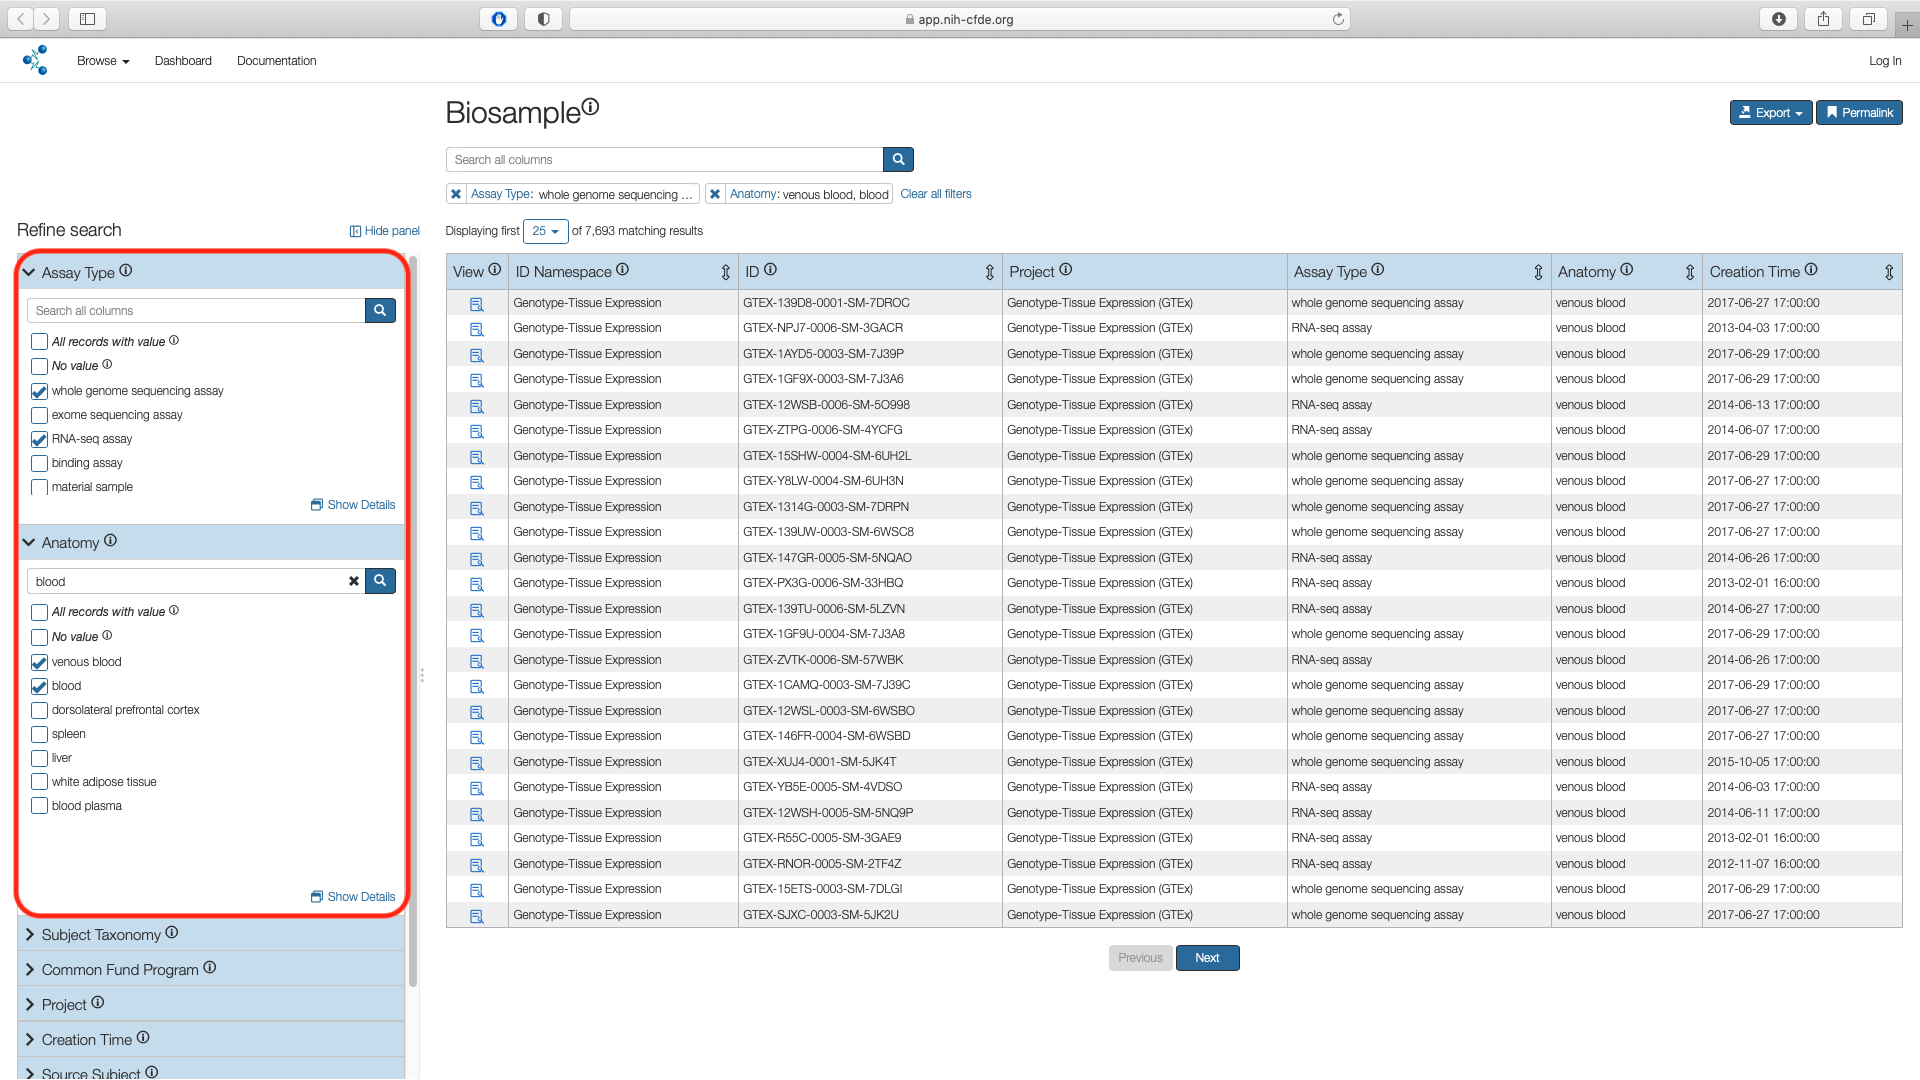
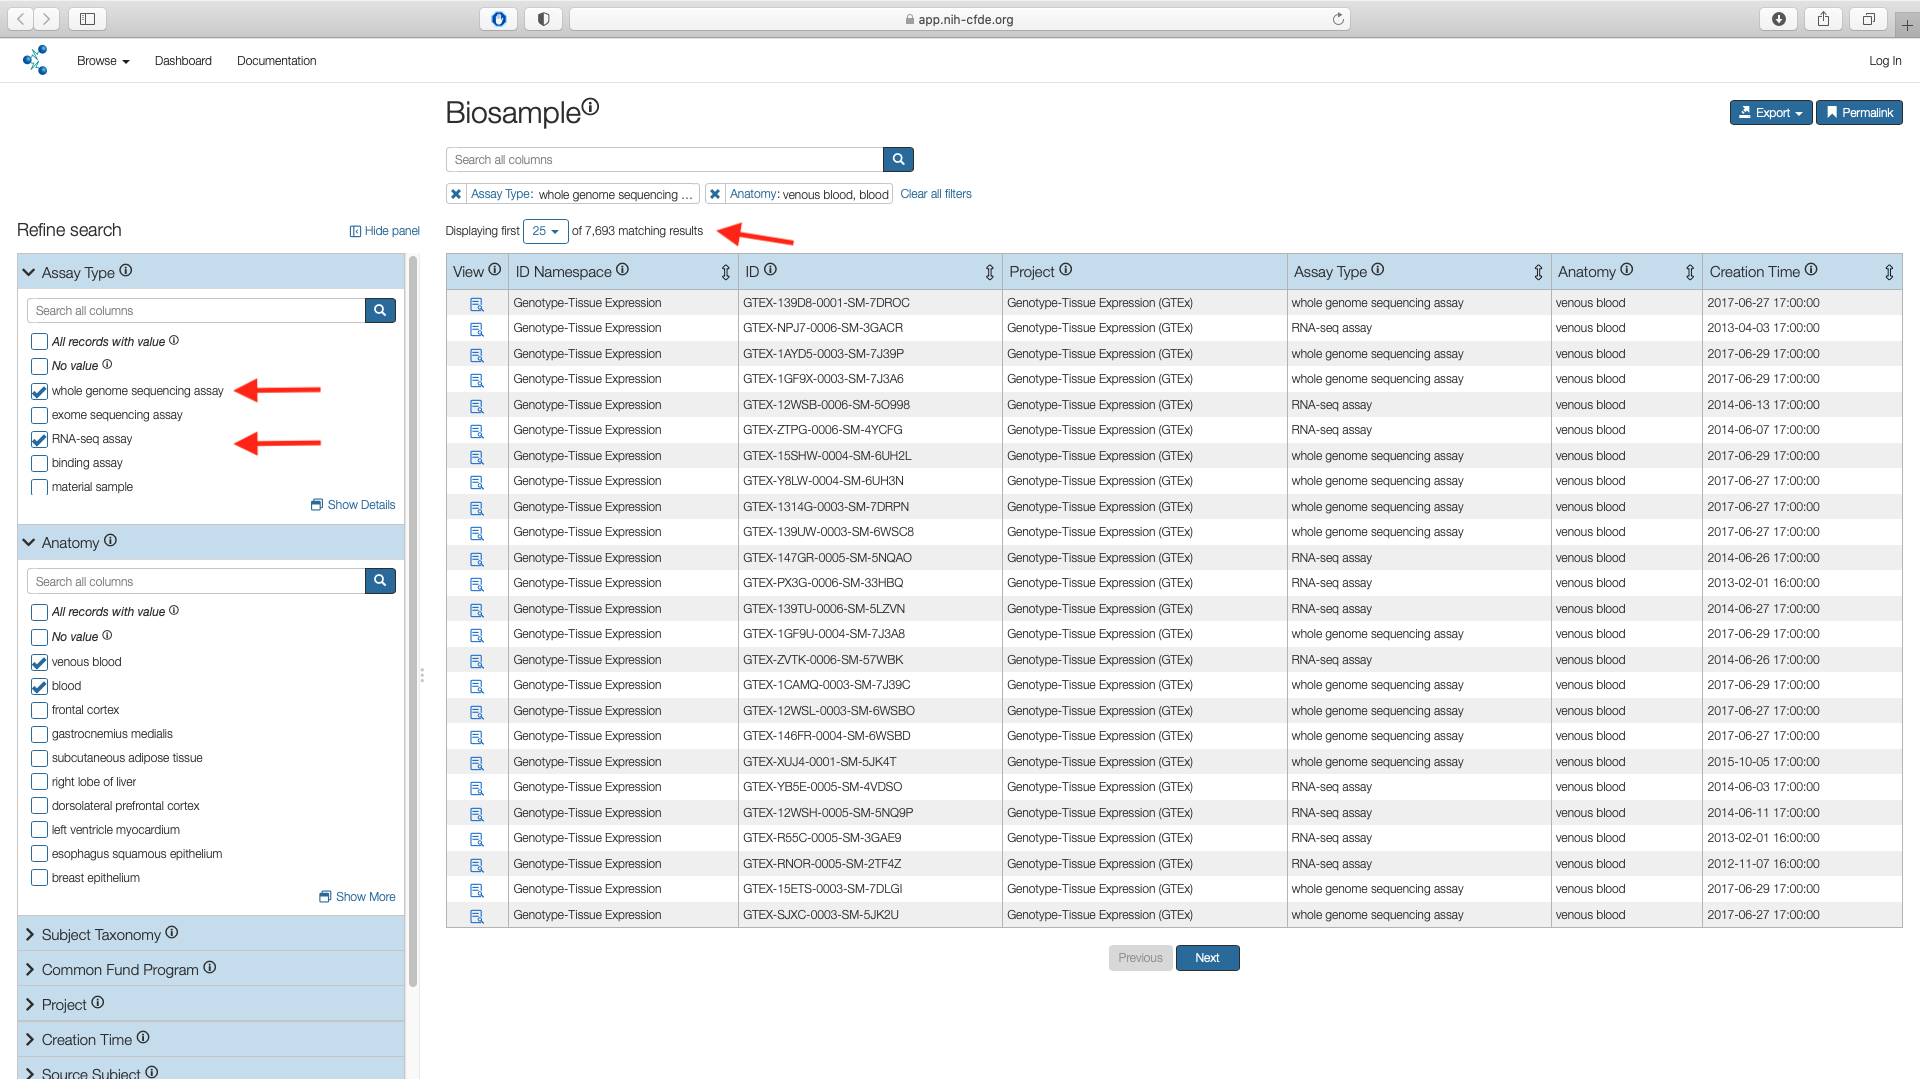
Fixes to blood cancer tutorial based on reviewer comments - moved video to the end - split tutorial into two - clarified images with addition to arrows and boxes - updated some images for simpler workflow - added additional text clarifying download, login and access process

diff --git a/docs/CF-Tutorials/CFDE-Portal/blood-cancer-portal-export.md b/docs/CF-Tutorials/CFDE-Portal/blood-cancer-portal-export.md
@@ -1,0 +1,87 @@
+---
+layout: page
+title: Functional Genetic Variation in Blood Cancer
+---
+
+# Functional Genetic Variation in Blood Cancer
+
+Acute Myeloid Leukemia (AML) is a type of blood cancer. In AML, the affected myeloid cells which are a type of white blood cells, are not functional and build up in the bone marrow leaving reduced capacity for healthy white and red blood cells. While
+risk factors for developing AML exist, often times the underlying cause remains unknown. Gene mutations and chromosomal abnormality in the leukemia cells occur sporadically. Characterization of the wide spectrum of genetic events involved in AML will aide in better
+understanding of its etiology and ultimately in development of improved therapy.
+
+Combining whole genome sequencing (WGS) data with global transcriptomic profiling using RNA-sequencing (RNA-seq) can help elucidate functional dysregulation for genes of interest.
+In this use case, we demonstrate the utility of the [CFDE portal](https://app.nih-cfde.org) in identifying and extracting suitable AML WGS and RNA-seq datasets from across the
+CF programs.
+
+## Step 1: Access the Biosample information
+
+From the main landing page for the [CFDE portal](https://app.nih-cfde.org) there are two
+options to access the "Biosample" view of the CFDE data browser.
+
+By using the "Biosample" link under the "Or browse by feature" section listed
+under "Explore our Repository" or by selecting the "Biosampleunder the "Browse" option in the top left navigation bar.
+
+![CFDE portal Biosample](/../../images/CFDE-portal-biosample.png "CFDE portal Biosample")   
+
+The default page shows a total of 289,320 records.
+
+## Step 2: Apply Anatomy Filter
+
+Access the "Anatomy" filter listed under the Refine Search panel. Click on the "Show More" option which opens a pop up window with all search results.
+
+![Applying anatomy filter](../../images/AML-anatomy-filter.png "Applying anatomy filter")   
+
+Search for "blood" in the search box. Select "blood" and "venous blood" options and choose "Submit".
+
+![Applying blood filter](../../images/AML-blood-filter.png "Applying blood filter")   
+
+The Biosample page shows the subset of matches for "Anatomy" filters. This results in 10,229 results.
+
+![Anatomy blood subset](../../images/AML-blood-subset.png "Anatomy blood subset")   
+
+## Step 3: Apply Assay Filter
+
+Next use the "Assay" filter listed under the Refine Search panel to select the boxes
+for whole genome sequencing assay (WGS) and RNA-seq assay values. This results in 7693 records.
+
+![Apply assay filter](../../images/AML-assay-anatomy.png "Apply assay filter")   
+
+!!! note "Additive Filters"
+    The various filters are additive and are useful in subsetting a larger cohort. In this example the "Assay" filter was applied on top of the "Anatomy" subsetted list.
+
+## Step 4: Apply Project Filter
+
+To select only the datasets pertaining to AML, use the "Project" filter under the Refine
+Search panel and click on "Show More".
+This results in 17 projects stemming from three separate CF programs listed under the
+"ID Namespace" column i.e Genotype-Tissue Expression (GTEx), The Gabriella Miller Kids First
+Pediatric Research Program (KF) and Molecular Transducers of Physical Activity
+Consortium (MoTrPAC).
+
+!!! note "MoTrPAC data "
+    Although MoTrPAC will eventually include human data, the current release contains test data from experiments conducted on rats. Thus, this dataset is excluded from the current cohort.
+
+Check the boxes corresponding to `Genotype-Tissue Expression (GTEx)`and `TARGET: Acute Myeloid Leukemia` in the "Name" column and click "Submit". This results in 1,140 matching records.
+
+![Apply project filter](../../images/AML-final-cohort.png "Apply project filter")   
+
+## Step 5: Export Cohort
+
+The filtered cohort containing 1,140 records can now be exported as a `csv` file and can be accessed from downloads folder associated with the web browser in the user's local machine. Default is generally the `Downloads` folder.
+
+![Export final cohort](../../images/AML-cohort-export.png "Export final cohort")   
+
+!!! note "Cohort manifest contains metadata only"
+
+    The exported `csv` contains metadata only. To further investigate the selected cohort, use the data portals of the originating Common Fund (CF) program i.e. GTEx and KF respectively.
+
+The exported `csv` file has thirteen columns.
+
+![CFDE portal exported file](../../images/CFDE-portal-blood-cancer-export.png "CFDE portal exported file")   
+
+The `anatomy` columns lists the [UBERON](http://uberon.github.io/about.html) values for venous blood (UBERON:0013756) and blood (UBERON:0000178). The `assay_type` lists the [Ontology for Biomedical Investigations (OBI)](http://obi-ontology.org) IDs for WGS (OBI:0002117) and RNA-seq (OBI:0001271).
+The `id` column lists the unique sample IDs within the cohort and will be key in obtaining the associated files from data portals for [GTEx](https://gtexportal.org/home/) and [KF](https://kidsfirstdrc.org/) respectively.
+
+A video walk through demonstrating the cohort selection for AML.
+
+<iframe id="kaltura_player" src="https://cdnapisec.kaltura.com/p/1770401/sp/177040100/embedIframeJs/uiconf_id/29032722/partner_id/1770401?iframeembed=true&playerId=kaltura_player&entry_id=1_2xx7dwci&flashvars[mediaProtocol]=rtmp&amp;flashvars[streamerType]=rtmp&amp;flashvars[streamerUrl]=rtmp://www.kaltura.com:1935&amp;flashvars[rtmpFlavors]=1&amp;flashvars[localizationCode]=en&amp;flashvars[leadWithHTML5]=true&amp;flashvars[sideBarContainer.plugin]=true&amp;flashvars[sideBarContainer.position]=left&amp;flashvars[sideBarContainer.clickToClose]=true&amp;flashvars[chapters.plugin]=true&amp;flashvars[chapters.layout]=vertical&amp;flashvars[chapters.thumbnailRotator]=false&amp;flashvars[streamSelector.plugin]=true&amp;flashvars[EmbedPlayer.SpinnerTarget]=videoHolder&amp;flashvars[dualScreen.plugin]=true&amp;flashvars[Kaltura.addCrossoriginToIframe]=true&amp;&wid=1_uoyyydlh" width="608" height="402" allowfullscreen webkitallowfullscreen mozAllowFullScreen allow="autoplay *; fullscreen *; encrypted-media *" sandbox="allow-forms allow-same-origin allow-scripts allow-top-navigation allow-pointer-lock allow-popups allow-modals allow-orientation-lock allow-popups-to-escape-sandbox allow-presentation allow-top-navigation-by-user-activation" frameborder="0" title="Kaltura Player"></iframe>

diff --git a/docs/CF-Tutorials/CFDE-Portal/blood-cancer-data-access.md b/docs/CF-Tutorials/CFDE-Portal/blood-cancer-data-access.md
@@ -1,0 +1,62 @@
+---
+layout: page
+title: Blood Cancer Data Access from Common Fund Portals
+---
+
+# Blood Cancer Data Access from Common Fund Portals
+
+Using the details in the [CFDE portal exported `csv` manifest](./blood-cancer-portal-export.md), the associated data files can be accessed from data portals of the individual Common Fund programs, [GTEx](https://gtexportal.org/home/) and [KF](https://kidsfirstdrc.org/) respectively.
+
+## KF Data Portal
+
+[The Gabriella Miller Kids First Data Resource Center (KF)](https://kidsfirstdrc.org/) provides researchers access to data collected from children affected with cancer and structural birth defects to enable new discoveries and treatment strategies.
+
+!!! note "Login"
+    [Follow our guide to login into the KF data portal](../../Kids-First/Portal-Setup-And-Permissions/KF_3_KF_Registration.md) which is via one of the three routes including ORCID, Google or Facebook.
+
+After login, select the "File Repository" and in the "Clinical Filters" tab, scroll all the way to the bottom to choose the "Search Files by Biospecimen ID". Click on "upload your list of ids".
+
+![KF select biospecimen id](../../images/KF-select-biospecimen-id.png "KF select biospecimen id")
+
+You can paste the comma separated list of IDs which is same as the values in the `id` column of the exported file from the portal. Alternatively, you can upload a file that contain only the relevant KF `ids` as a comma separated list. Choose "View Results" to view all the associated metadata data.
+
+![KF upload ids](../../images/KF-upload-ids.png "KF upload ids")
+
+The resulting view in the portal lists all the participants and files associated with the study. Using the "File Filters" tab the details of the experimental strategy, data type and file formats can also be viewed. The lock icon under the "Actions" column implies protected data and access has to be requested.
+
+![KF subset list](../../images/KF-subset-list.png "KF subset list")
+
+Request for the controlled data access for the AML dataset can be applied through [National Cancer Institute's Cancer Research Data Commons](https://datascience.cancer.gov/data-commons).
+
+![KF data access](../../images/KF-data-access.png "KF data access")
+
+## GTEx Data Portal
+
+[The GTEx project](https://gtexportal.org/home/) is an ongoing effort to build a comprehensive public resource to study tissue-specific gene expression and regulation. Data was collected from over 1000 individuals across 54 non-diseased tissue sites and thus represent baseline values.
+
+!!! note "GTEx"
+    The portal website address is listed in the exported csv file for the CFDE portal in both the `id_namespace` and in the `project_id_namespace` columns.
+
+Login in to the portal is via Google credentials.
+
+![GTEx login page](../../images/GTEx-login-page.png "GTEx login page")
+
+The relevant data available for download can be accessed via the `Datasets` option in the main menu bar.
+
+![GTEx data download](../../images/GTEx-data-download.png "GTEx data download")
+
+The subject and sample level metadata are listed under the `Annotations` tab on the latest data release page. The plain text files ending in `.txt` contain the sample and subject annotations while the excel files ending in `.xlsx` contain the dictionary for all the columns listed in the sample and subject annotations files.
+
+![GTEx data annotations](../../images/GTEx-data-annotations.png "GTEx data annotations")
+
+The sample annotations file contains the `SAMPID` that correspond to the `ID` column in the exported `csv` file from the CFDE portal.
+
+![GTEx sample annotations](../../images/GTEx-sample-annotations.png "GTEx sample annotations")
+
+The subject annotations file contains `SUBJID` which corresponds to the first ten characters of the `SAMPID`.
+
+![GTEx subject annotations](../../images/GTEx-subject-annotations.png "GTEx subject annotations")
+
+These lists can be combined and filtered to obtain subjects and data corresponding to blood DNA and RNA samples from individuals in the youngest age bracket to make comparable analysis with the KF AML data.
+
+Based on the filtered cohort, a researcher can access the [GTEx data](https://gtexportal.org/home/protectedDataAccess) after approval of dbGAP controlled access application.

diff --git a/docs/CF-Tutorials/CFDE-Portal/index.md b/docs/CF-Tutorials/CFDE-Portal/index.md
@@ -9,7 +9,8 @@ The [Common Fund Data Ecosystem (CFDE) Portal](https://app.nih-cfde.org) is the 
 
 Est. Time | Lesson name | Description
 --- | --- | ---
-15 mins | [Functional Genetic Variation in Blood Cancer](./blood-cancer.md) | Identify RNA-seq and whole genome sequencing (WGS) datasets
+10 mins | [Functional Genetic Variation in Blood Cancer](./blood-cancer-portal-export.md) | Identify RNA-seq and whole genome sequencing (WGS) datasets in CFDE portal
+15 mins | [Blood Cancer Data Access from Common Fund Portals](./blood-cancer-data-access.md) | Access identified cohort datasets in individual CF data portals
 15 mins | [Integrated Analysis of Movement-Related Disorders](./movement-disorders.md) | Identify multiomics datasets
 
 !!! note "Learning Objectives"
@@ -31,6 +32,6 @@ Est. Time | Lesson name | Description
 
     Vidlets:
 
-     - [Acute Myeloid Leukemia Demonstration](./blood-cancer.md)
+     - [Acute Myeloid Leukemia Demonstration](./blood-cancer-portal-export.md)
 
      - [Movement-Related Disorders Demonstration](./movement-disorders.md)
